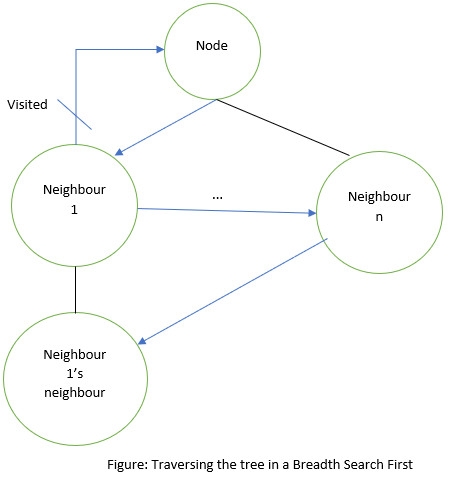
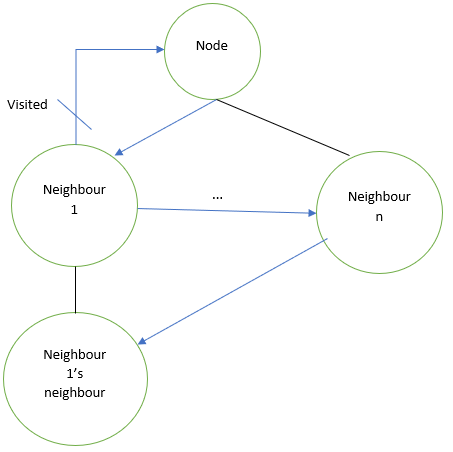
figure

diff --git a/docs/examples/ipfs-crawler/README.md b/docs/examples/ipfs-crawler/README.md
@@ -4,7 +4,7 @@ The goal of this application is to use the IPFS API to build a crawler in the IP
 ## Structure
 The idea of the crawler is to go over the DHT annotating each neighbor to a certain node. This process is repeated in a Breadth Search algorithm to retrieve the list of all nodes in the network. To avoid cycles, a list of visited nodes is kept, using a hashmap to improve the accessing time for it.
 
-![Breadth-First traverse](./figure.jpg)
+![Breadth-First traverse](./figure.png)
 
 Similarly, a crawler could be implemented by parsing all the nodes associated to a certain content ID. However, for this approach to be representative, the node running the crawler should have access to a significant part of the content hashkeys (or else try to brute force all possible ones), which is not the goal of the application.
 
